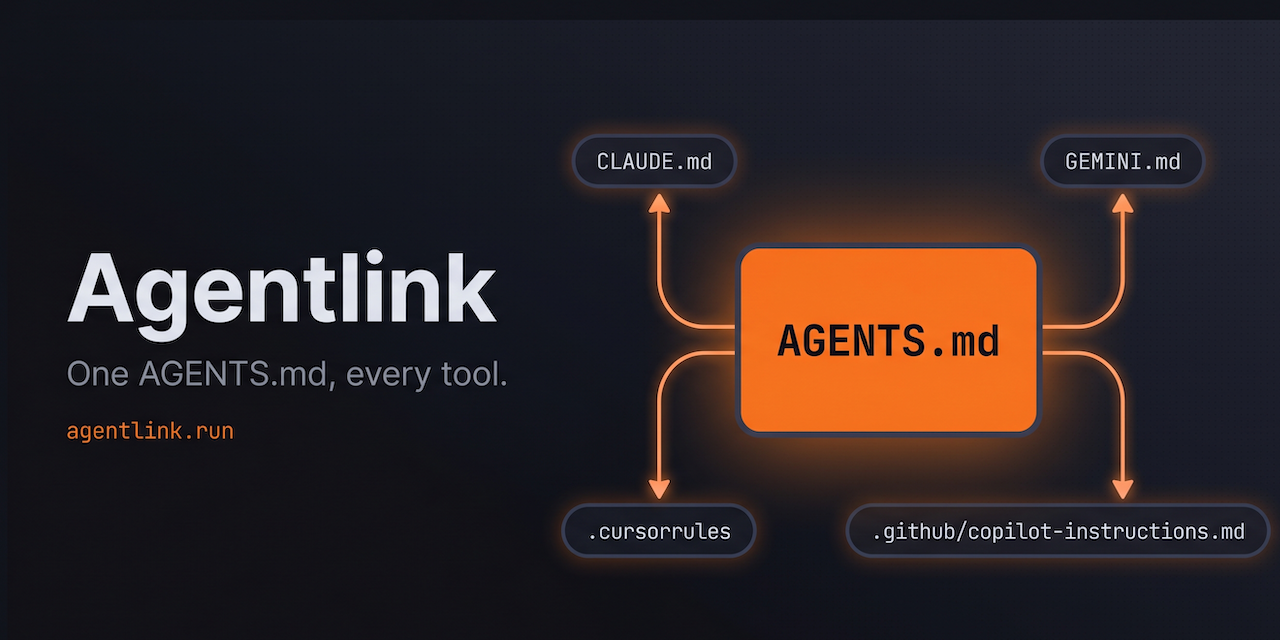
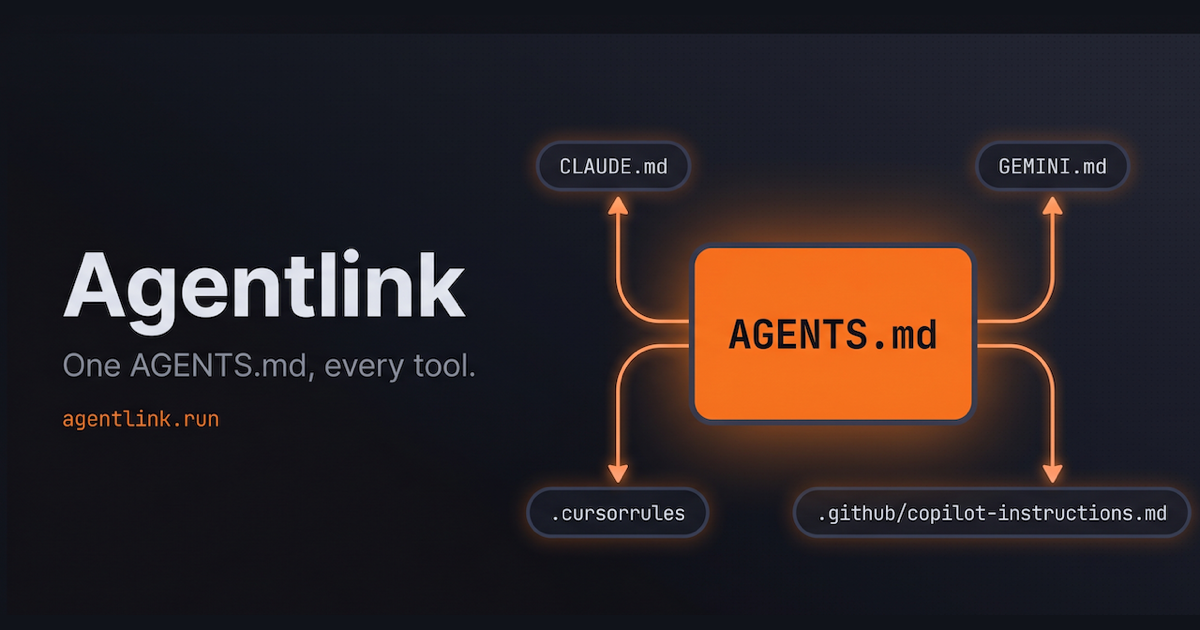
Release v0.5.0

diff --git a/docs/index.html b/docs/index.html
@@ -27,8 +27,8 @@
   <meta property="og:description" content="Sync one AGENTS.md to every AI coding tool on your machine. With zero magic, just symlinks.">
   <meta property="og:image" content="https://agentlink.run/imgs/og.png">
   <meta property="og:image:alt" content="Agentlink &mdash; central AGENTS.md source card linked to CLAUDE.md, GEMINI.md, .cursorrules, and .github/copilot-instructions.md alias pills">
-  <meta property="og:image:width" content="1280">
-  <meta property="og:image:height" content="640">
+  <meta property="og:image:width" content="1200">
+  <meta property="og:image:height" content="630">
   <meta property="og:url" content="https://agentlink.run/">
   <meta property="og:locale" content="en_US">
   <meta property="article:published_time" content="2026-04-14T00:00:00Z">
@@ -468,7 +468,7 @@
       <span class="sep" aria-hidden="true">&middot;</span>
       Published <time datetime="2026-04-14">April 14, 2026</time>
       <span class="sep" aria-hidden="true">&middot;</span>
-      <span class="version">v0.4.2</span>
+      <span class="version">v0.5.0</span>
       <span class="sep" aria-hidden="true">&middot;</span>
       <a href="https://opensource.org/licenses/MIT" rel="license" target="_blank">MIT</a>
     </p>
@@ -562,7 +562,7 @@ GEMINI.md                           <span class="arrow">-&gt;</span> AGENTS.md
 <section id="install">
   <div class="container">
     <h2>Install</h2>
-    <p>Pre-built binaries for macOS and Linux are on the <a href="https://github.com/snapsynapse/agentlink/releases/tag/v0.4.2" target="_blank" rel="noopener">v0.4.2 release page</a>. Or install directly with Go 1.23+.</p>
+    <p>Pre-built binaries for macOS and Linux are on the <a href="https://github.com/snapsynapse/agentlink/releases/tag/v0.5.0" target="_blank" rel="noopener">v0.5.0 release page</a>. Or install directly with Go 1.23+.</p>
 
     <div class="code-grid single">
       <div class="code-block">
@@ -585,14 +585,14 @@ agentlink --help</pre>
       <div class="code-block">
         <h3>Pre-built binary</h3>
 <pre># macOS (Apple Silicon)
-curl -L -o agentlink https://github.com/snapsynapse/agentlink/releases/download/v0.4.2/agentlink-darwin-arm64
-curl -L -o SHA256SUMS.txt https://github.com/snapsynapse/agentlink/releases/download/v0.4.2/SHA256SUMS.txt
+curl -L -o agentlink https://github.com/snapsynapse/agentlink/releases/download/v0.5.0/agentlink-darwin-arm64
+curl -L -o SHA256SUMS.txt https://github.com/snapsynapse/agentlink/releases/download/v0.5.0/SHA256SUMS.txt
 grep ' agentlink-darwin-arm64$' SHA256SUMS.txt | sed 's/agentlink-darwin-arm64/agentlink/' | shasum -a 256 -c -
 chmod +x agentlink && mv agentlink /usr/local/bin/
 
 # macOS (Intel) / Linux
 # Replace darwin-arm64 with darwin-amd64, linux-amd64, or linux-arm64</pre>
-        <p class="annotation">Checksums in <a href="https://github.com/snapsynapse/agentlink/releases/tag/v0.4.2" target="_blank" rel="noopener">SHA256SUMS.txt</a> on the release page.</p>
+        <p class="annotation">Checksums in <a href="https://github.com/snapsynapse/agentlink/releases/tag/v0.5.0" target="_blank" rel="noopener">SHA256SUMS.txt</a> on the release page.</p>
       </div>
 
       <div class="code-block">
@@ -711,6 +711,8 @@ agentlink sync --force</pre>
       The GuideCheck assistant guide is published at
       <a href="https://agentlink.run/.well-known/assistant-guide.txt">/.well-known/assistant-guide.txt</a>
       with a Level 4 guide-file conformance target.
+      Its local-only data and execution boundaries are published at
+      <a href="https://agentlink.run/.well-known/aiposture">/.well-known/aiposture</a>.
       Agentlink began as <a href="https://github.com/martinmose/agentlink" target="_blank" rel="noopener">martinmose/agentlink</a>
       by Martin Mose Facondini (MIT); Snap Synapse maintains this continuation with <code>detect</code>, <code>scan</code>, <code>hooks</code>, automatic backup,
       global-config support, integration tests, and release distribution.
@@ -725,7 +727,7 @@ agentlink sync --force</pre>
   <div class="container">
     <div class="footer-grid">
       <div class="footer-meta">
-        <p>Agentlink v0.4.2 &middot; <a href="https://github.com/snapsynapse/agentlink/blob/main/LICENSE" target="_blank" rel="noopener">MIT</a></p>
+        <p>Agentlink v0.5.0 &middot; <a href="https://github.com/snapsynapse/agentlink/blob/main/LICENSE" target="_blank" rel="noopener">MIT</a></p>
         <p>A <a href="https://snapsynapse.com" target="_blank" rel="noopener">Snap Synapse</a> project by <a href="https://snapsynapse.com" target="_blank" rel="noopener author">Sam Rogers</a>, with lineage from <a href="https://github.com/martinmose/agentlink" target="_blank" rel="noopener">martinmose/agentlink</a>.</p>
         <p style="margin-top: 0.5rem;">See also: <a href="https://hardguard25.com/" target="_blank" rel="noopener">HardGuard25</a> &middot; <a href="https://gracefulboundaries.dev/" target="_blank" rel="noopener">Graceful Boundaries</a> &middot; <a href="https://skillprovenance.dev/" target="_blank" rel="noopener">Skill Provenance</a></p>
       </div>

diff --git a/docs_contract_test.go b/docs_contract_test.go
@@ -1,6 +1,8 @@
 package main
 
 import (
+	"image"
+	_ "image/png"
 	"os"
 	"strings"
 	"testing"
@@ -8,6 +10,58 @@ import (
 	"github.com/snapsynapse/agentlink/internal/config"
 	"github.com/snapsynapse/agentlink/internal/registry"
 )
+
+func TestOpenGraphImagesFollowPortfolioDimensions(t *testing.T) {
+	const wantWidth, wantHeight = 1200, 630
+	var first []byte
+	for _, path := range []string{"imgs/og.png", "docs/imgs/og.png"} {
+		data, err := os.ReadFile(path)
+		if err != nil {
+			t.Fatal(err)
+		}
+		config, _, err := image.DecodeConfig(strings.NewReader(string(data)))
+		if err != nil {
+			t.Fatalf("decode %s: %v", path, err)
+		}
+		if config.Width != wantWidth || config.Height != wantHeight {
+			t.Errorf("%s dimensions = %dx%d, want %dx%d", path, config.Width, config.Height, wantWidth, wantHeight)
+		}
+		if first == nil {
+			first = data
+		} else if string(data) != string(first) {
+			t.Errorf("%s does not match imgs/og.png", path)
+		}
+	}
+}
+
+func TestAIPostureTrustAnchorsMatch(t *testing.T) {
+	const postureURL = "https://agentlink.run/.well-known/aiposture"
+	root, err := os.ReadFile("aiposture")
+	if err != nil {
+		t.Fatal(err)
+	}
+	served, err := os.ReadFile("docs/.well-known/aiposture")
+	if err != nil {
+		t.Fatal(err)
+	}
+	if string(root) != string(served) {
+		t.Fatal("AI Posture trust-anchor copies differ")
+	}
+	for _, want := range []string{"AI Posture: Agentlink", "Data residency: local filesystem only", postureURL} {
+		if !strings.Contains(string(root), want) {
+			t.Errorf("aiposture missing %q", want)
+		}
+	}
+	for _, path := range []string{"README.md", "docs/index.html", "docs/llms.txt"} {
+		data, err := os.ReadFile(path)
+		if err != nil {
+			t.Fatal(err)
+		}
+		if !strings.Contains(string(data), postureURL) {
+			t.Errorf("%s does not link to AI Posture", path)
+		}
+	}
+}
 
 func TestPublishedHookExamplesIncludeRequiredSelector(t *testing.T) {
 	for _, path := range []string{"README.md", "docs/index.html"} {
@@ -164,32 +218,32 @@ func TestReadmeSupportedToolsTableMatchesRegistry(t *testing.T) {
 }
 
 func TestReleaseSurfacesUseCurrentVersion(t *testing.T) {
-	const version = "v0.4.2"
+	const version = "v0.5.0"
 	wants := map[string][]string{
-		"CHANGELOG.md": {"## [0.4.2] - 2026-08-20"},
-		"SECURITY.md":  {"| 0.4.x   | Yes"},
+		"CHANGELOG.md": {"## [0.5.0] - 2026-09-01"},
+		"SECURITY.md":  {"| 0.5.x   | Yes"},
 		"docs/index.html": {
-			"Agentlink v0.4.2",
-			"/releases/tag/v0.4.2",
-			"/releases/download/v0.4.2/agentlink-darwin-arm64",
+			"Agentlink v0.5.0",
+			"/releases/tag/v0.5.0",
+			"/releases/download/v0.5.0/agentlink-darwin-arm64",
 		},
-		"docs/llms.txt": {"Current release: v0.4.2."},
+		"docs/llms.txt": {"Current release: v0.5.0."},
 		"docs/.well-known/assistant-guide.txt": {
-			"guide-version: 1.2.2",
-			"go install github.com/snapsynapse/agentlink/cmd/agentlink@v0.4.2",
-			"/releases/download/v0.4.2/agentlink-darwin-arm64",
+			"guide-version: 1.2.3",
+			"go install github.com/snapsynapse/agentlink/cmd/agentlink@v0.5.0",
+			"/releases/download/v0.5.0/agentlink-darwin-arm64",
 		},
 		"docs/.well-known/assistant-guide-manifest.txt": {
-			"immutable-release-url: https://github.com/snapsynapse/agentlink/blob/v0.4.2/",
+			"immutable-release-url: https://github.com/snapsynapse/agentlink/blob/v0.5.0/",
 		},
 		"assistant-guide.txt": {
-			"guide-version: 1.2.2",
-			"applies-to: agentlink >=0.4.2",
+			"guide-version: 1.2.3",
+			"applies-to: agentlink >=0.5.0",
 		},
 		"assistant-guide-manifest.txt": {
-			"immutable-release-url: https://github.com/snapsynapse/agentlink/blob/v0.4.2/",
+			"immutable-release-url: https://github.com/snapsynapse/agentlink/blob/v0.5.0/",
 		},
-		"RELEASE_NOTES-0.4.2.md": {"# Agentlink v0.4.2"},
+		"RELEASE_NOTES-0.5.0.md": {"# Agentlink v0.5.0"},
 	}
 
 	for path, required := range wants {

diff --git a/CHANGELOG.md b/CHANGELOG.md
@@ -7,8 +7,12 @@ and this project adheres to [Semantic Versioning](https://semver.org/spec/v2.0.0
 
 ## [Unreleased]
 
+## [0.5.0] - 2026-09-01
+
 ### Added
 
+- A byte-identical root and served AI Posture declaration describing the
+  CLI's local-only data and execution boundaries.
 - Integration metadata that distinguishes native, configurable, import,
   symlink, and unsupported AGENTS.md consumption paths.
 - `detect --generate --prefer-native` recommendations for Claude imports and
@@ -22,6 +26,7 @@ and this project adheres to [Semantic Versioning](https://semver.org/spec/v2.0.0
 
 ### Changed
 
+- OpenGraph image assets now use the portfolio-standard 1200×630 dimensions.
 - `scan` now treats a repository's `.agentlink.yaml` as authoritative and
   preserves undeclared real wrapper files during automatic scanning.
 - Documentation now distinguishes identical symlink aliases from layered
@@ -34,6 +39,8 @@ and this project adheres to [Semantic Versioning](https://semver.org/spec/v2.0.0
   1.27.1 releases, with Go 1.27.1 also covered on macOS. Staticcheck 2026.2.1
   runs on the stable quality lane instead of pairing an older analyzer with a
   newer compiler's export data.
+- CI now uses Govulncheck 1.7.0, which is compatible with the Go 1.27 stable
+  quality lane.
 
 ### Fixed
 
@@ -271,7 +278,8 @@ by Martin Mose Facondini (MIT). Fork additions offered back upstream in
 [martinmose/agentlink#2](https://github.com/martinmose/agentlink/pull/2).
 See [NOTICE](NOTICE) for the full fork provenance.
 
-[Unreleased]: https://github.com/snapsynapse/agentlink/compare/v0.4.2...HEAD
+[Unreleased]: https://github.com/snapsynapse/agentlink/compare/v0.5.0...HEAD
+[0.5.0]: https://github.com/snapsynapse/agentlink/compare/v0.4.2...v0.5.0
 [0.4.2]: https://github.com/snapsynapse/agentlink/compare/v0.4.1...v0.4.2
 [0.4.1]: https://github.com/snapsynapse/agentlink/compare/v0.4.0...v0.4.1
 [0.4.0]: https://github.com/snapsynapse/agentlink/compare/v0.3.0...v0.4.0

diff --git a/RELEASE_NOTES-0.5.0.md b/RELEASE_NOTES-0.5.0.md
@@ -1,0 +1,33 @@
+# Agentlink v0.5.0
+
+Agentlink v0.5.0 adds explicit support for layered instruction-file workflows
+while maintaining its narrow filesystem scope.
+
+## What changed
+
+- `detect --generate --prefer-native` now favors native, configurable, and
+  import-based integrations before symlink aliases.
+- `scan --nested` can create documented nested-capable aliases beside nested
+  `AGENTS.md` files, while unknown integrations stay root-only.
+- Deterministic contracts cover compiled-CLI topology, relative targets,
+  explicit configuration, wrapper preservation, idempotence, dry runs, and
+  registry and documentation parity.
+- CI covers the Go 1.23.12 minimum contract, Go 1.26.8, Go 1.27.1, and Go
+  1.27.1 on macOS. Its stable quality lane uses Staticcheck 2026.2.1 and
+  Govulncheck 1.7.0.
+- A byte-identical root and served AI Posture declaration records the CLI's
+  local-only data and execution boundaries. OpenGraph images now use the
+  portfolio-standard 1200×630 dimensions.
+
+## Runtime compatibility
+
+Go 1.23 or newer remains required for source installation. The CLI remains
+dependency-free at runtime. Existing configurations retain their behavior.
+
+## Verification
+
+The release gate runs unit, race, vet, integration, formatting, static
+analysis, spelling, vulnerability, action-semantic, search, accessibility,
+deterministic cross-build, checksum, host-binary version, clean consumer, and
+production checks. Published binaries target darwin and linux on amd64 and
+arm64.

diff --git a/README.md b/README.md
@@ -21,10 +21,15 @@ Agentlink publishes a GuideCheck Human-Verifiable Assistant Guide for bounded lo
 
 - Assistant guide: https://agentlink.run/.well-known/assistant-guide.txt
 - Manifest: https://agentlink.run/.well-known/assistant-guide-manifest.txt
+- AI posture: https://agentlink.run/.well-known/aiposture
 - Target conformance: GuideCheck Level 4, the highest guide-file level. Level 5 requires a conformant assistant runtime and is not claimed by this repository.
 
 The guide and manifest are tracked twice: review copies at repository root and byte-identical served copies under `docs/.well-known/`. The independent copies are the Level 4 trust anchor; CI rejects drift.
 Before asking an assistant to perform local Agentlink setup or verification work, verify the guide, read it in full, and approve proceeding under the reported level.
+
+The AI posture is likewise tracked as byte-identical root and served copies. It
+states the local-only data and execution boundaries of the CLI; it is not an
+API or a claim about the behavior of tools Agentlink configures.
 
 ---
 
@@ -145,7 +150,7 @@ export PATH="$HOME/go/bin:$PATH"
 
 - **AUR**: `yay -S agentlink-bin`
 
-Current release: **v0.4.2**.
+Current release: **v0.5.0**.
 
 ---
 

diff --git a/PROJECT_CONTEXT.md b/PROJECT_CONTEXT.md
@@ -47,9 +47,8 @@ Snap Synapse project. Upstream attribution is preserved in `NOTICE`.
 
 ## Current status
 
-- Actively maintained; v0.4.2 packages the 2026-08-20 repository lifecycle,
-  deterministic release, accessibility, search-contract, trust-anchor, and
-  GitHub configuration work
+- Actively maintained; v0.5.0 adds layered-instruction workflows, deterministic
+  scan contracts, and current Go compatibility coverage
 - CI (GitHub Actions, `.github/workflows/ci.yml`) verifies the Go 1.23.12
   minimum contract, current Go 1.26.8 and 1.27.1 releases, and Go 1.27.1 on
   macOS. It enforces build, unit tests, integration tests, the race detector,

diff --git a/CONTRIBUTING.md b/CONTRIBUTING.md
@@ -85,14 +85,14 @@ Read `RELEASE_CHECKLIST.md` first. Release preparation and publication are
 separate. Prepare and verify deterministic assets without external writes:
 
 ```bash
-scripts/prepare-release.sh 0.4.2
+scripts/prepare-release.sh 0.5.0
 ```
 
 After the reviewed release commit is merged and exact-head CI passes, run the
 publication command from clean, synchronized `main`:
 
 ```bash
-scripts/release.sh 0.4.2
+scripts/release.sh 0.5.0
 ```
 
 It tags the existing commit, publishes the declared assets, updates the

diff --git a/SECURITY.md b/SECURITY.md
@@ -7,8 +7,8 @@ small standalone project maintained by Snap Synapse. There is no LTS branch.
 
 | Version | Supported |
 |---------|-----------|
-| 0.4.x   | Yes       |
-| < 0.4   | No        |
+| 0.5.x   | Yes       |
+| < 0.5   | No        |
 
 ## Reporting a vulnerability
 
